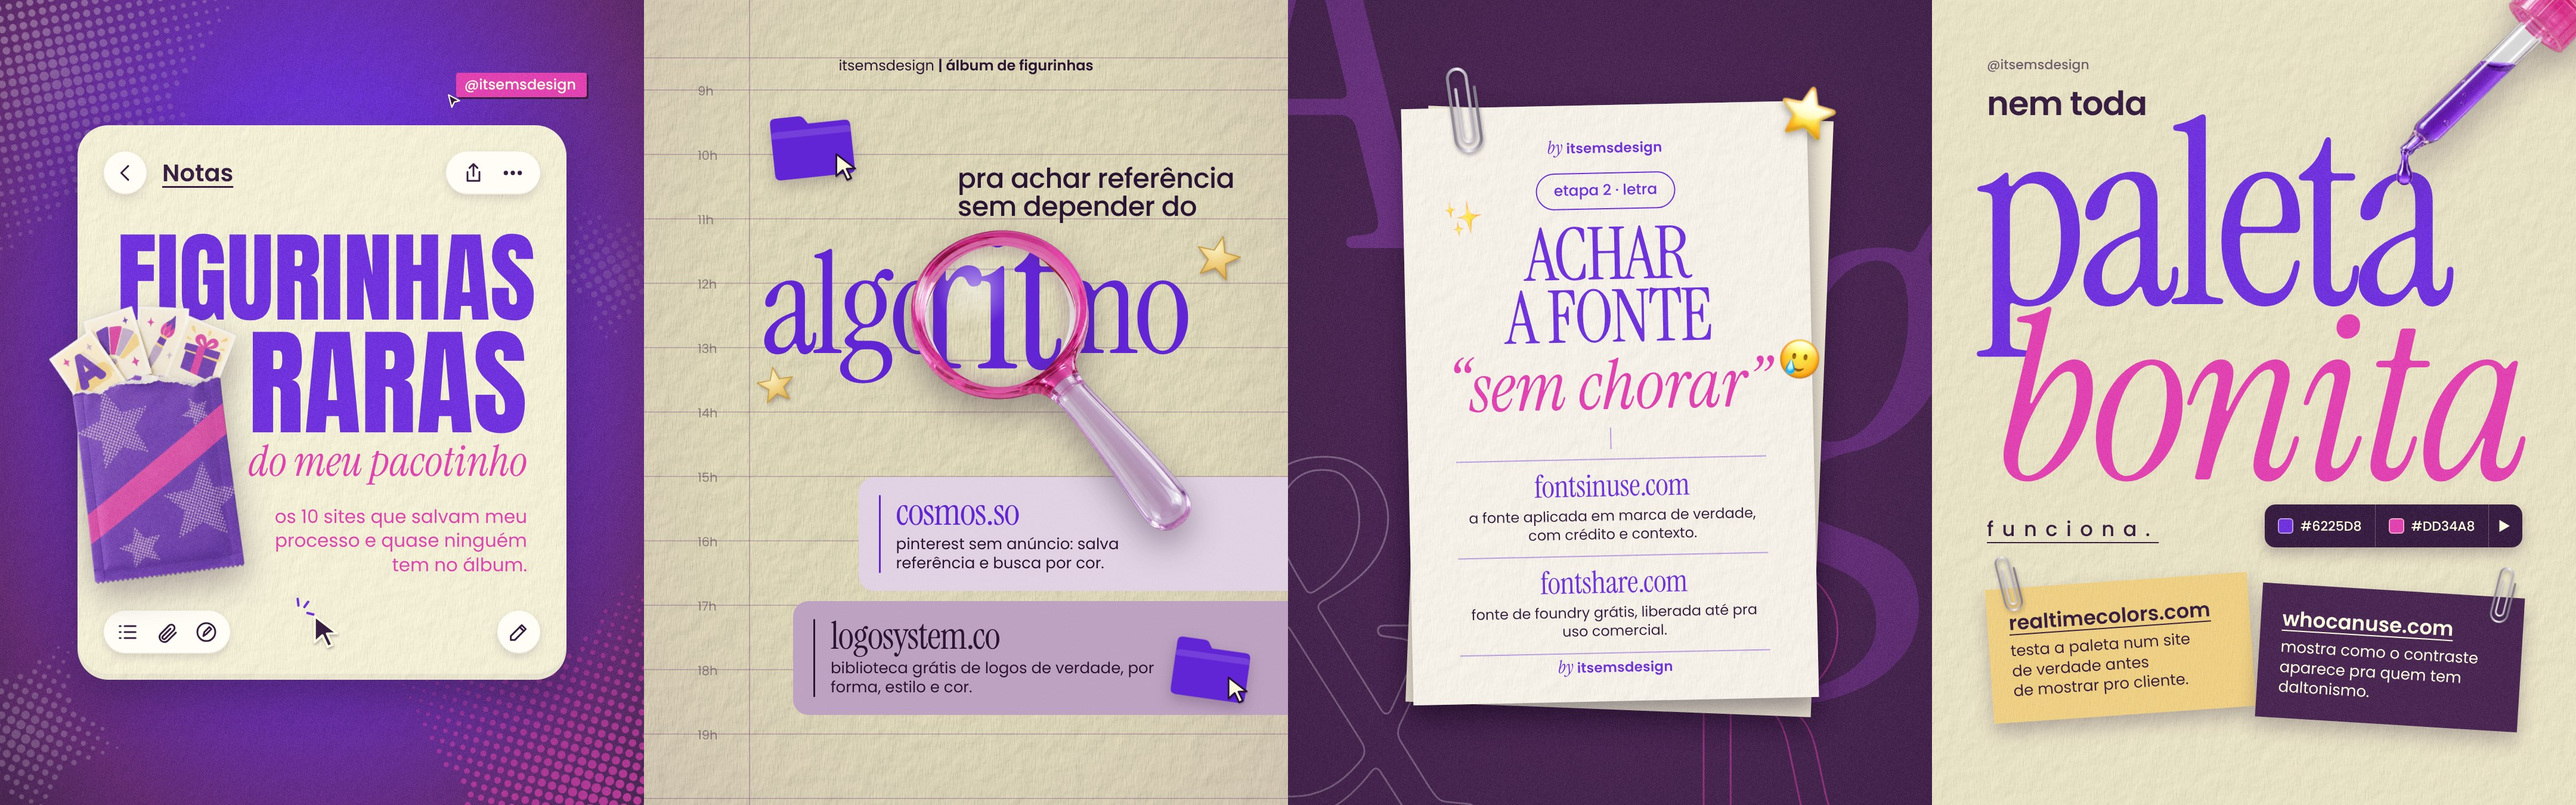
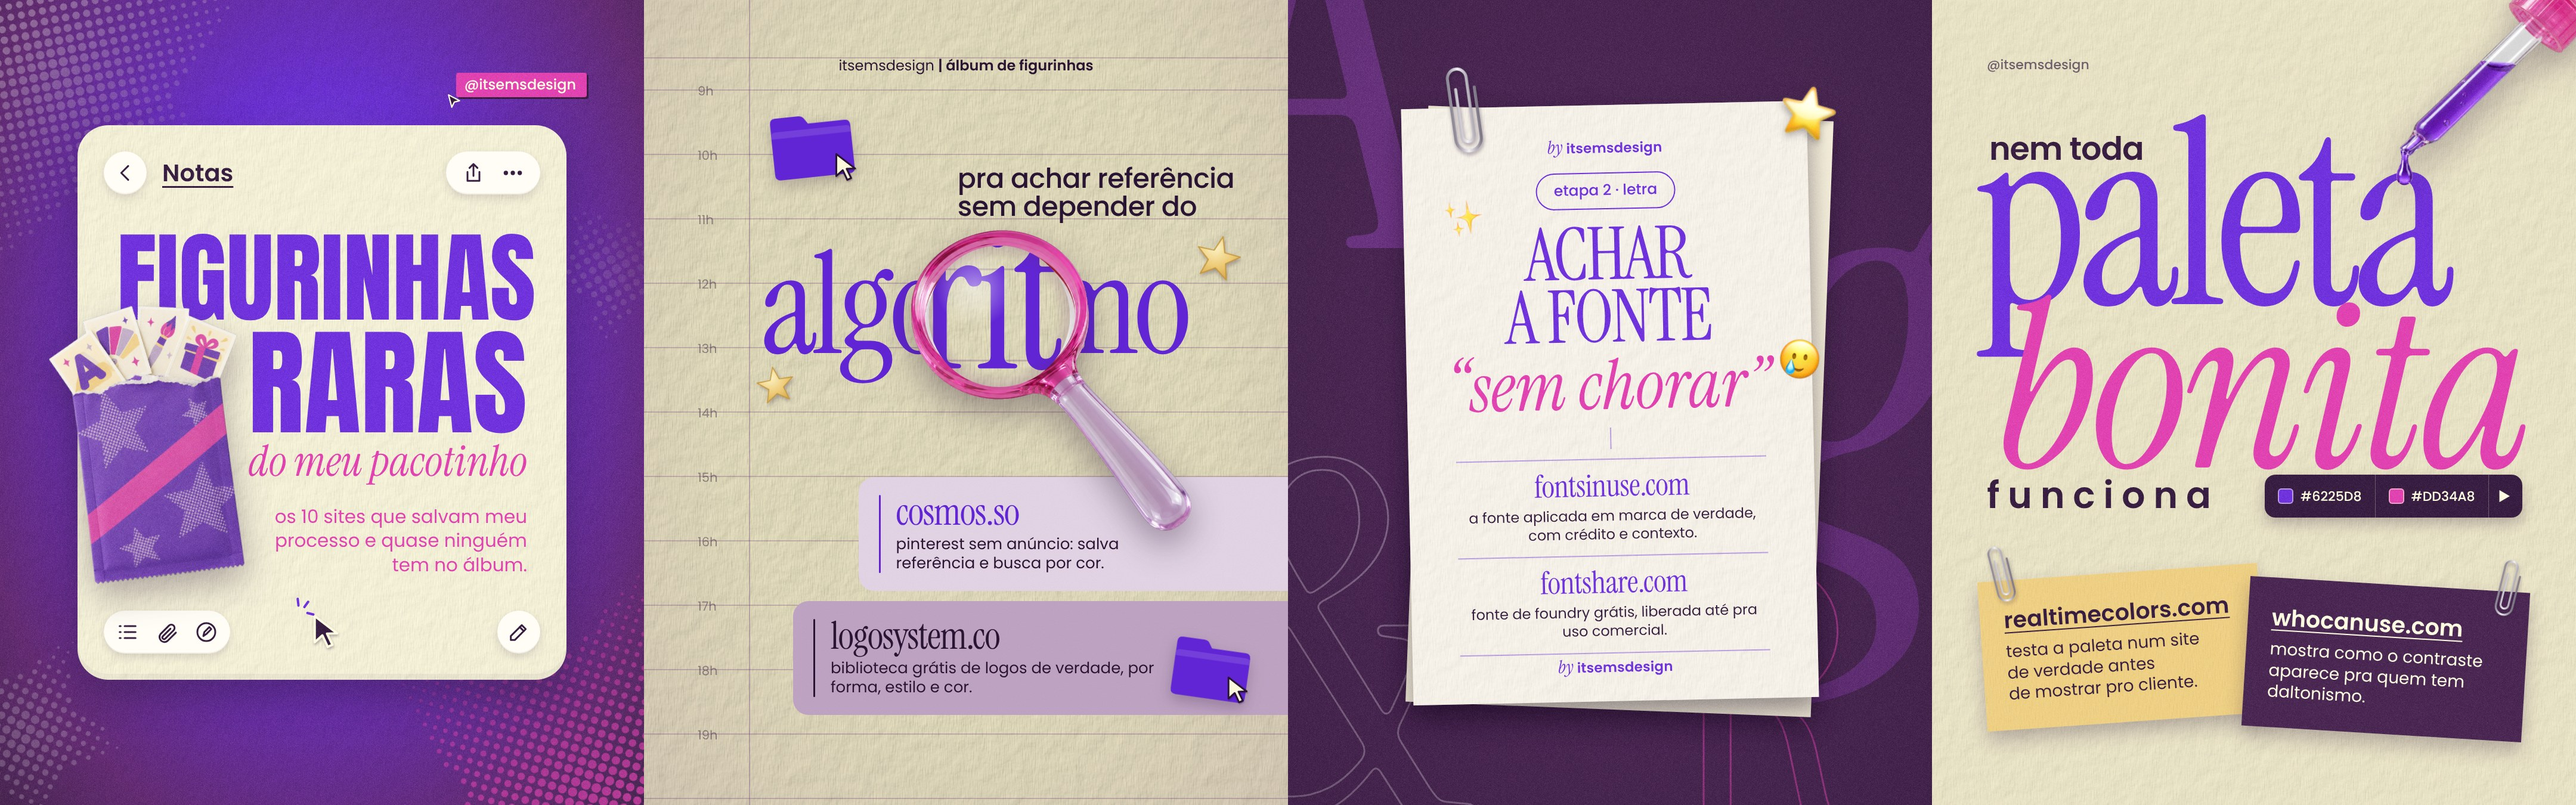
EMS figurinhas raras v4: ajustes da página 4 (nem toda no 'pa', bonita mais perto, funciona forte, bilhetes maiores)
Claude-Session: https://claude.ai/code/session_01CmCiKB9wFc4qQovptupnZT

Changed region(s): [[0.75, 0.3733, 1.0, 0.9333], [0.75, 0.0933, 0.8438, 0.2178]]

diff --git a/Emi/ems-album-figurinhas/projeto/carrossel.html b/Emi/ems-album-figurinhas/projeto/carrossel.html
@@ -193,21 +193,21 @@ const FOLHA = `<div class="abs" style="inset:0;background:var(--ivory-2)"></div>
   let nc = 0;
   const clipe = (x, y, r) => { const id = 'clp4' + (nc++); return `<svg class="abs" style="left:${x}px;top:${y}px;width:34px;transform:rotate(${r}deg);filter:drop-shadow(1px 4px 3px rgba(42,20,51,.35));z-index:3" viewBox="0 0 46 130"><defs><linearGradient id="${id}" x1="0" x2="1"><stop offset="0" stop-color="#8f8a97"/><stop offset=".45" stop-color="#f4f1f7"/><stop offset="1" stop-color="#7f7987"/></linearGradient></defs>
     <path d="M14 34 V104 a9 9 0 0 0 18 0 V18 a14 14 0 0 0 -28 0 V108 a19 19 0 0 0 38 0 V34" fill="none" stroke="url(#${id})" stroke-width="4.4" stroke-linecap="round"/></svg>`; };
-  const bilhete = (x, y, w, r, bg, cor, s) => `<div class="abs" style="left:${x}px;top:${y}px;width:${w}px;padding:40px 36px 36px;background:${bg};transform:rotate(${r}deg);box-shadow:0 16px 30px rgba(42,20,51,.3)">
+  const bilhete = (x, y, w, r, bg, cor, s) => `<div class="abs" style="left:${x}px;top:${y}px;width:${w}px;padding:46px 40px 42px;background:${bg};transform:rotate(${r}deg);box-shadow:0 16px 30px rgba(42,20,51,.3)">
       <div class="abs" style="inset:0;background-image:var(--tx-fibras);background-size:400px;mix-blend-mode:multiply;opacity:.3"></div>
-      <div style="position:relative;font-family:var(--sans);font-weight:600;font-size:34px;line-height:1.1;color:${cor};text-decoration:underline;text-underline-offset:7px;text-decoration-thickness:2px">${s.nome}</div>
-      <div style="position:relative;font-family:var(--sans);font-size:26px;line-height:1.28;color:${cor};margin-top:12px">${s.pra}</div></div>`;
+      <div style="position:relative;font-family:var(--sans);font-weight:600;font-size:38px;line-height:1.1;color:${cor};text-decoration:underline;text-underline-offset:7px;text-decoration-thickness:2px">${s.nome}</div>
+      <div style="position:relative;font-family:var(--sans);font-size:28px;line-height:1.28;color:${cor};margin-top:14px">${s.pra}</div></div>`;
   const amostra = (cor, hex) => `<span style="display:inline-flex;align-items:center;gap:12px;padding:0 22px"><i style="width:26px;height:26px;border-radius:6px;background:${cor};box-shadow:inset 0 0 0 2px rgba(255,251,222,.5)"></i>${hex}</span>`;
   lamina(3, `
     <div class="abs" style="left:92px;top:92px;font-family:var(--sans);font-weight:500;font-size:22px;color:rgba(42,20,51,.7)">@itsemsdesign</div>
-    <div class="abs" style="left:92px;top:146px;font-family:var(--sans);font-weight:600;font-size:56px;line-height:1;letter-spacing:-.02em;color:var(--tinta)">nem toda</div>
+    <div class="abs" id="nemtoda" style="left:96px;top:222px;font-family:var(--sans);font-weight:600;font-size:54px;line-height:1;letter-spacing:-.02em;color:var(--tinta)">nem toda</div>
     <div class="abs" id="pal" style="left:70px;top:196px;font-family:var(--serif);font-size:430px;line-height:.78;letter-spacing:-.04em;color:var(--violeta)">paleta</div>
-    <div class="abs" style="right:84px;top:520px;font-family:var(--serif);font-style:italic;font-size:390px;line-height:.78;letter-spacing:-.02em;color:var(--pink)">bonita</div>
-    <div class="abs" style="left:92px;top:862px;font-family:var(--sans);font-weight:500;font-size:34px;letter-spacing:.42em;color:var(--tinta);text-decoration:underline;text-underline-offset:10px;text-decoration-thickness:2px">funciona.</div>
-    <div class="abs" style="right:90px;top:846px;display:flex;align-items:center;height:72px;border-radius:18px;background:var(--tinta);color:var(--ivory);font-family:var(--sans);font-weight:500;font-size:22px;box-shadow:0 10px 22px rgba(42,20,51,.3)">
+    <div class="abs" style="right:84px;top:500px;font-family:var(--serif);font-style:italic;font-size:390px;line-height:.78;letter-spacing:-.02em;color:var(--pink)">bonita</div>
+    <div class="abs" style="left:92px;top:800px;font-family:var(--sans);font-weight:600;font-size:62px;line-height:1;letter-spacing:.22em;color:var(--tinta)">funciona</div>
+    <div class="abs" style="right:90px;top:796px;display:flex;align-items:center;height:72px;border-radius:18px;background:var(--tinta);color:var(--ivory);font-family:var(--sans);font-weight:500;font-size:22px;box-shadow:0 10px 22px rgba(42,20,51,.3)">
       ${amostra('var(--violeta)', '#6225D8')}<b style="width:1px;align-self:stretch;background:rgba(255,251,222,.25)"></b>${amostra('var(--pink)', '#DD34A8')}<b style="width:1px;align-self:stretch;background:rgba(255,251,222,.25)"></b><span style="padding:0 20px 0 16px">▶</span></div>
-    ${bilhete(96, 974, 440, -4, 'var(--manteiga)', 'var(--tinta)', s1)}${clipe(112, 930, -14)}
-    ${bilhete(548, 990, 440, 3.5, 'var(--ameixa)', 'var(--ivory)', s2)}${clipe(942, 950, 14)}
+    ${bilhete(84, 960, 470, -4, 'var(--manteiga)', 'var(--tinta)', s1)}${clipe(100, 914, -14)}
+    ${bilhete(526, 980, 470, 3.5, 'var(--ameixa)', 'var(--ivory)', s2)}${clipe(950, 938, 14)}
     <img class="objeto" id="gotas" src="recortes/conta-gotas.png" style="left:0;top:0;width:380px">
   `, `<div class="abs" style="inset:0;background:var(--ivory-2)"></div>
       <div class="abs" style="inset:0;background-image:var(--tx-relevo);background-size:620px;mix-blend-mode:multiply;opacity:.45"></div>
